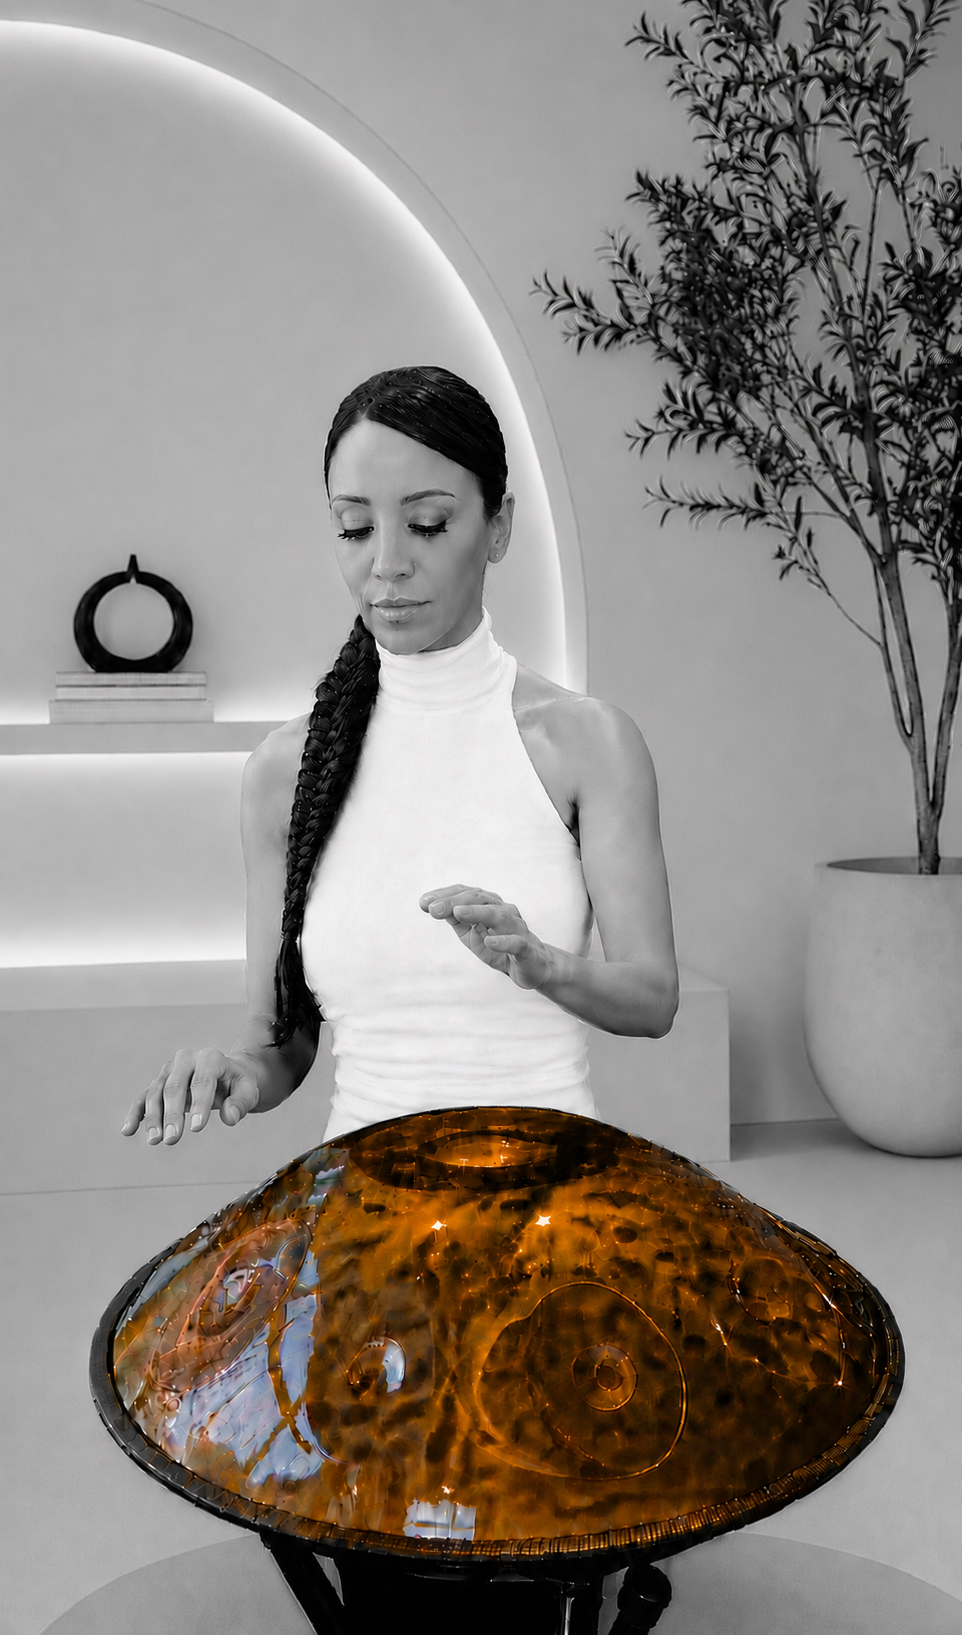
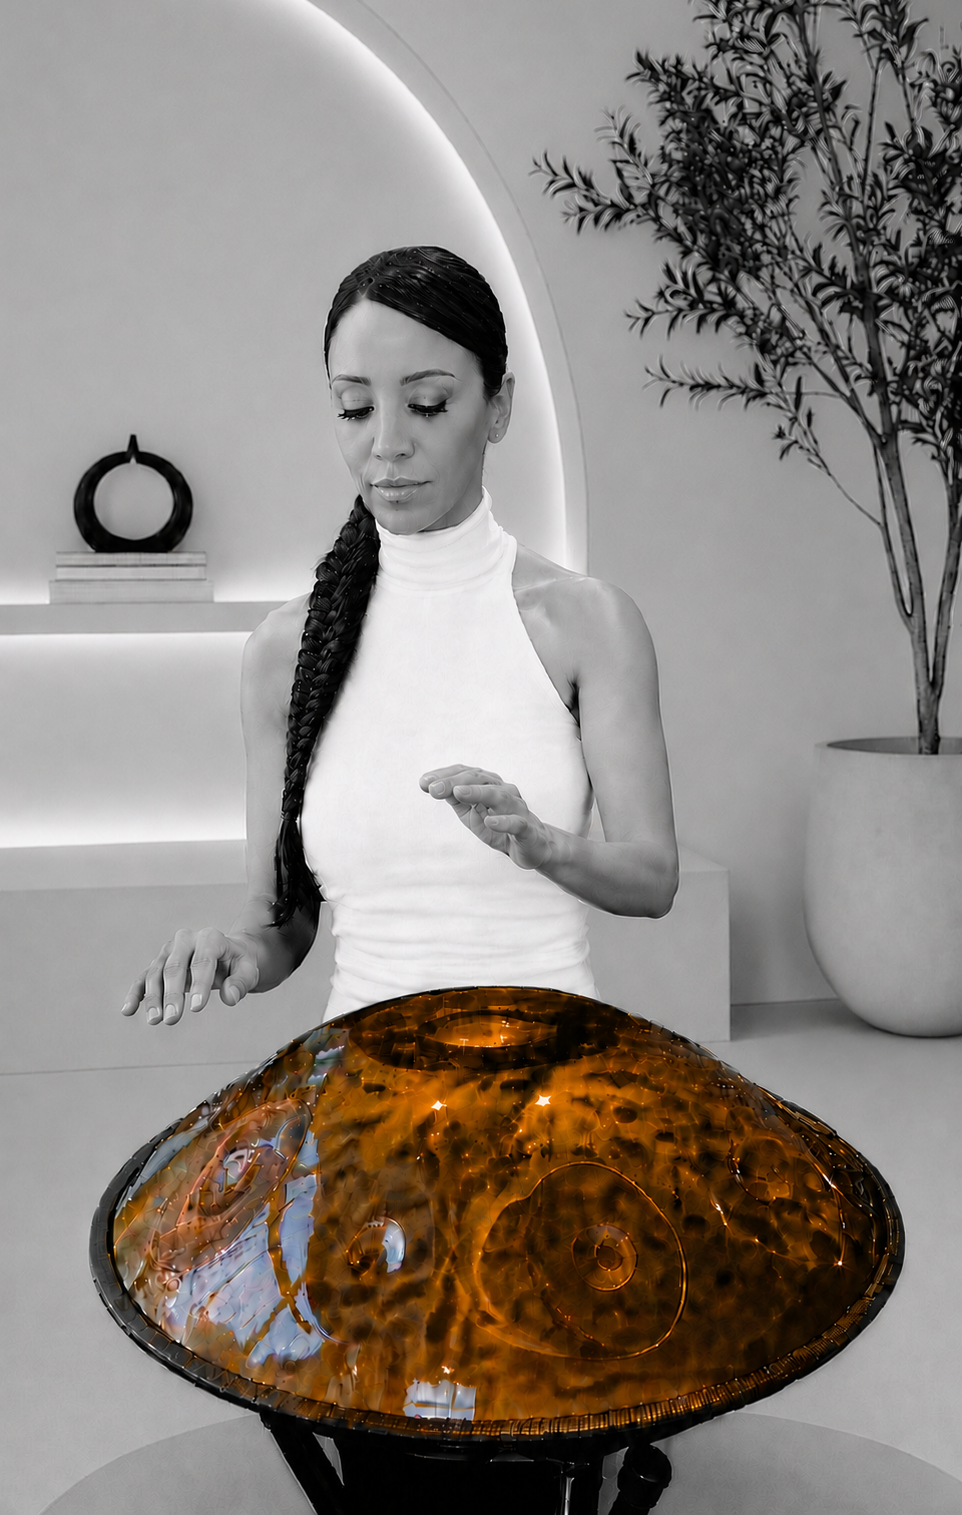
Guide section: fit one screen on laptop - trim empty space above head in portrait, shrink row, center text block vertically

diff --git a/src/app/v1/home.module.css b/src/app/v1/home.module.css
@@ -91,7 +91,13 @@
   grid-template-columns: auto 1fr;
   gap: clamp(40px, 6vw, 84px);
   align-items: stretch;
-  min-height: 560px;
+  /* Trimmed from 560px - combined with the sticky nav and sticky book bar
+     (both always on screen), 560px ran taller than a real laptop browser
+     window shows at once (browser chrome eats real space a bare viewport
+     height doesn't account for), forcing a scroll to see the whole
+     portrait. This still shows the complete, uncropped photo at whatever
+     width its own aspect ratio derives - just a smaller box overall. */
+  min-height: 460px;
   /* The photo bleeds to the true left edge (no shell), but the text side
      should still end where the "Why This Exists" section's text ends -
      that section centers on a 1040px box (.problem), so its right edge
@@ -110,7 +116,11 @@
 .guidePortrait {
   position: relative;
   overflow: hidden;
-  aspect-ratio: 962 / 1635;
+  /* Matches silvana-hero.png's own cropped dimensions (962 x 1515) - a
+     deliberate small trim off the top of the source photo (empty wall/
+     tree-branch space, not the subject) so the portrait can stay wide at a
+     shorter row height instead of shrinking uniformly and losing presence. */
+  aspect-ratio: 962 / 1515;
 }
 
 .guidePortrait img {
@@ -122,6 +132,14 @@
      spare in this row, so it should feel airier instead of pinning to the
      same padding a laptop screen uses. */
   padding: clamp(32px, 4vw, 92px) 0;
+  /* Centers the content block within the row instead of pinning it to the
+     top - with less text now than before, top-aligned content left a big
+     empty gap below the button; centering distributes any extra room
+     above and below instead, so the button doesn't sit stranded near the
+     top of the row. */
+  display: flex;
+  flex-direction: column;
+  justify-content: center;
 }
 
 .guideQuote {
